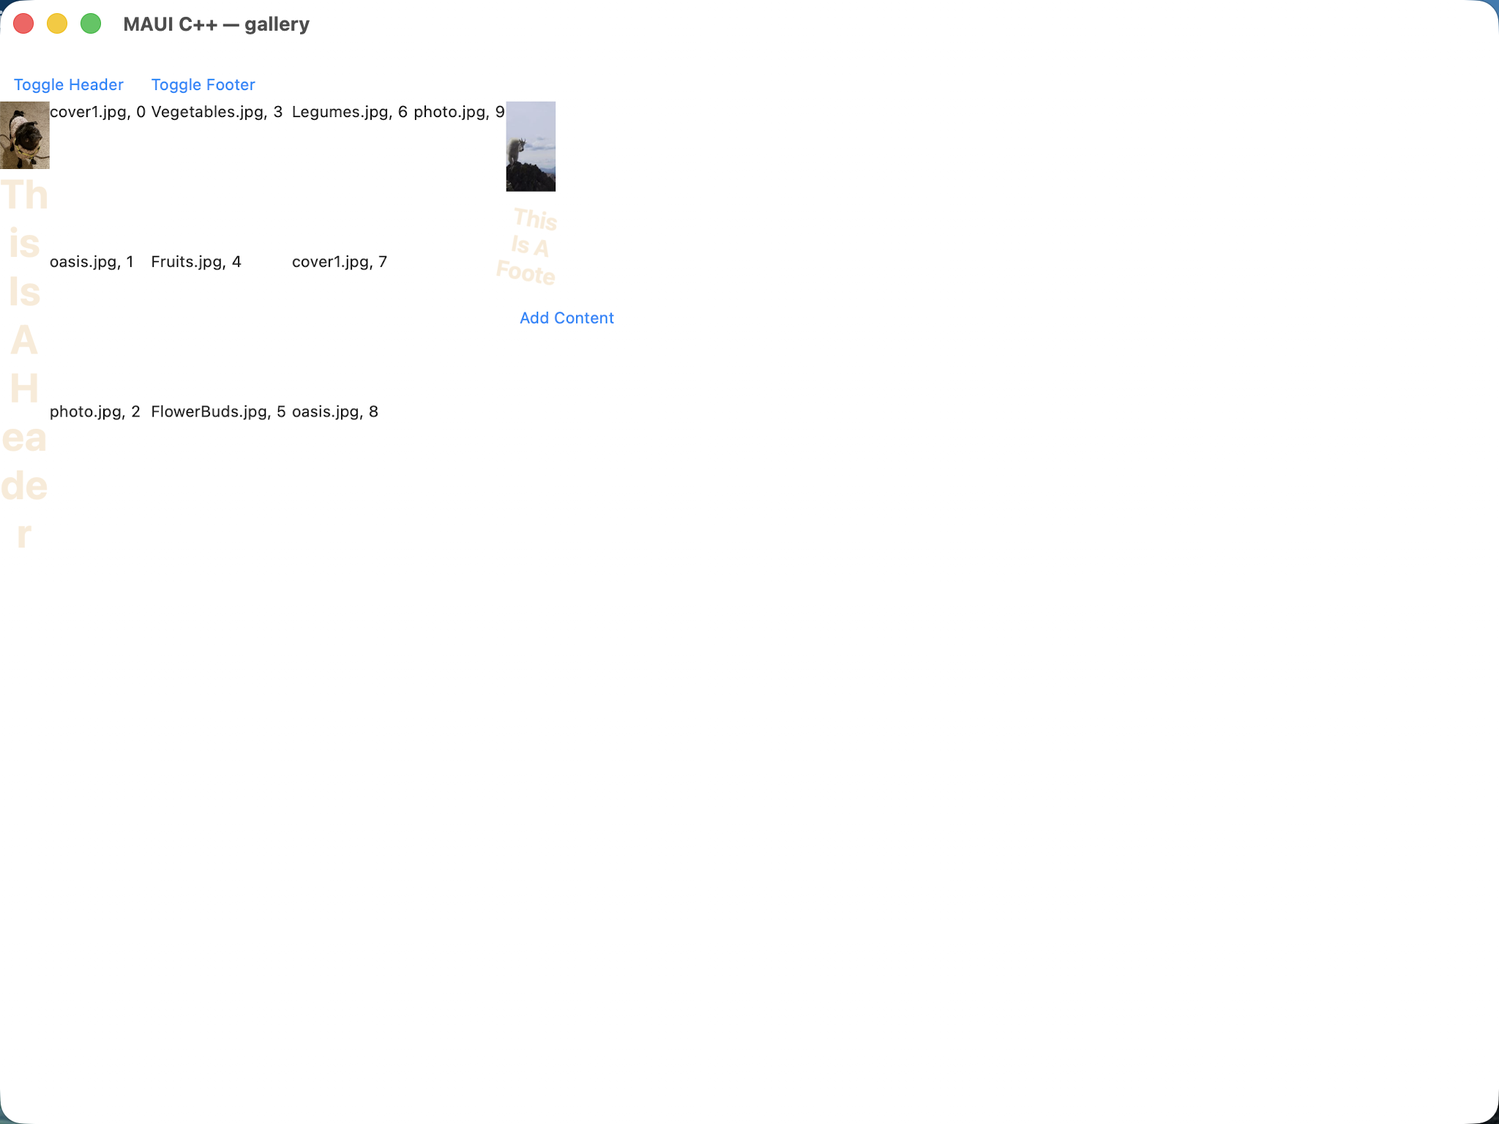
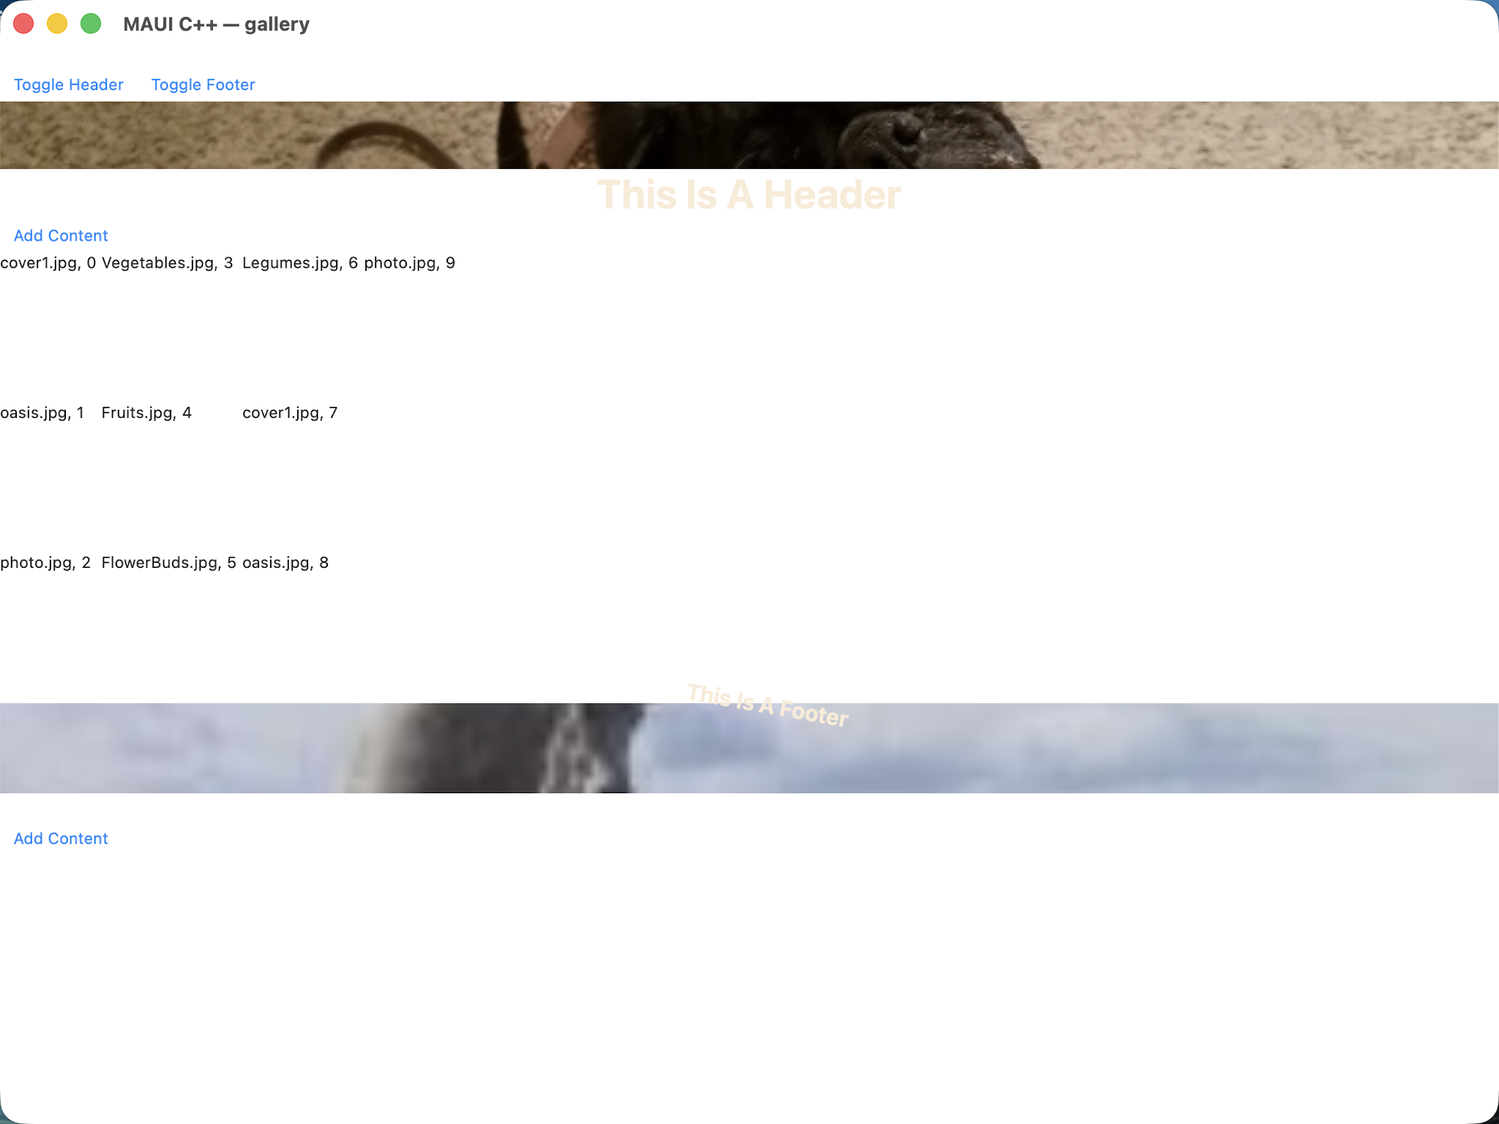
fix(gallery): header/footer chrome boxed onto CollectionView.Header/Footer
CollectionView.Header/.Footer (the VIEW form) is unsupported by the port
(port/maui-reference's own comment on these twins), but header_footer_view_page
and header_footer_grid_horizontal_page still called list_.set_header()/
set_footer() with the chrome Grids/StackLayouts boxed onto the CollectionView.
That squeezed the header image to item-cell-sized space in the horizontal-grid
page (a ~65px thumbnail instead of a full-width strip, with the header caption
wrapping vertically) and stacked/overlapped the header and footer chrome for
the plain header_footer_view page instead of showing an empty CollectionView
between them.

Rewrite both pages to match the shared twin XAML exactly: the header/footer
chrome are plain siblings (ABOVE/BELOW the CollectionView) inside a
VerticalStackLayout, not boxed Header/Footer values. header_footer_grid_horizontal's
toggle buttons are now inert resting UI (there's nothing left to toggle now that
the chrome isn't a boxed Header/Footer value), matching the shared XAML's own
"Clicked handlers omitted" note. Closes both builder/XAML structural divergences;
header_footer_view is removed from known_diverging() (header_footer_grid_horizontal
stays listed — a separate StackLayout-normalization divergence, cluster A).

Changed region(s): [[0.0, 0.0625, 1.0, 0.5], [0.0, 0.5938, 1.0, 0.75], [0.375, 0.2812, 0.4062, 0.3125]]

diff --git a/port/cpp/examples/gallery/pages/header_footer_grid_horizontal_page.hpp b/port/cpp/examples/gallery/pages/header_footer_grid_horizontal_page.hpp
@@ -1,39 +1,32 @@
 #pragma once
-// maui::samples::header_footer_grid_horizontal_page — ports HeaderFooterGridHorizontal.xaml
-// (+ HeaderFooterGridHorizontal.xaml.cs) of the C# CollectionView gallery
-// (CollectionViewGalleries/HeaderFooterGalleries).
+// maui::samples::header_footer_grid_horizontal_page — ports the shared twin
+// header_footer_grid_horizontal.xaml (port/maui-reference/pages/header_footer_grid_horizontal.xaml —
+// the HeaderFooterGridHorizontal.xaml oracle).
 //
 // The original page is the HORIZONTAL twin of HeaderFooterGrid: a two-row Grid — a horizontal
-// StackLayout of two buttons ("Toggle Header" / "Toggle Footer") on top, and below it a CollectionView
-// whose ItemsLayout is a GridItemsLayout (Span=3, **Orientation=Horizontal**, HorizontalItemSpacing=4,
-// VerticalItemSpacing=2). The only structural difference from the vertical sibling is that
-// GridItemsLayout Orientation, which makes the grid scroll/flow horizontally (a 3-row band of cells
-// that pages sideways) rather than vertically. CollectionView.Header and CollectionView.Footer are each
-// a VIEW (a StackLayout carrying an Image, a bold AntiqueWhite Label — "This Is A Header" / "This Is A
-// Footer" — and a nested horizontal StackLayout with an "Add Content" Button). The xaml.cs seeds the
-// source with DemoFilteredItemSource(10), sets ItemTemplate = ExampleTemplates.PhotoTemplate(), and
-// wires three handlers:
-//   - ToggleHeader / ToggleFooter stash the current Header/Footer and flip it to null and back
-//     (`header = CollectionView.Header ?? header; CollectionView.Header = Header==null ? header : null`);
-//   - AddContentClicked appends a `Label { Text = "Grow" }` to the StackLayout that owns the tapped
-//     button (the header or footer chrome grows in place).
+// StackLayout of two buttons ("Toggle Header" / "Toggle Footer") on top, and below it (Grid row 1) a
+// VerticalStackLayout wrapping, top to bottom: the header StackLayout, a CollectionView (ItemsLayout a
+// GridItemsLayout Span=3 **Orientation=Horizontal**), and the footer StackLayout. The header/footer
+// StackLayouts each carry an Image, a bold AntiqueWhite caption Label ("This Is A Header" / "This Is A
+// Footer"), and a nested horizontal StackLayout with an "Add Content" Button.
 //
-// This is the VIEW-as-chrome arm over a HORIZONTAL grid: the headless collection_view handler's
-// realize_supplemental takes the `value.as_bindable()` branch (reuse_id "view") and hosts the
-// StackLayout directly outside the scroll extent — exactly the C# `Header is View` path — while the
-// item area flows the cells horizontally per the GridItemsLayout orientation.
+// CollectionView.Header / .Footer (the VIEW form) are UNSUPPORTED by the port (see the shared XAML's own
+// comment), so — exactly like the twin — the header/footer StackLayouts are moved to plain SIBLINGS
+// ABOVE/BELOW the CollectionView inside a VerticalStackLayout, in top-to-bottom resting order, rather
+// than boxed onto CollectionView.Header/Footer (that was this page's prior, now-corrected, structure —
+// it squeezed both chrome stacks into item-cell-sized space and stacked them behind the header image).
+// The toggle buttons therefore no longer toggle a CollectionView.Header/Footer value; they are kept as
+// inert resting UI (Clicked handlers omitted, matching the shared XAML's own "Clicked handlers omitted"
+// note) — there is nothing left for them to toggle now that the chrome is plain siblings, matching the
+// oracle's resting (never-toggled) capture.
 //
 // The port mirrors the shape code-first:
 //   - the two header/footer chrome StackLayouts are built as vertical_stack_layout members (C#'s
 //     default StackLayout orientation is vertical) carrying an image, the bold AntiqueWhite caption
-//     label, and a nested horizontal_stack_layout holding the "Add Content" button (the C# nests the
-//     button in its own horizontal StackLayout — reproduced so AddContentClicked's `ve.Parent is
-//     StackLayout` walk lands on that inner stack);
+//     label, and a nested horizontal_stack_layout holding the "Add Content" button;
 //   - the GridItemsLayout(Span=3, **Horizontal**, …) is set as the collection_view's ItemsLayout;
 //   - the item template is the PhotoTemplate caption Label (Text bound to each row's caption — the
-//     image half has no headless-safe analog without an asset pipeline, see note);
-//   - toggle_header()/toggle_footer() reproduce the stash-and-flip logic; add_content() appends a
-//     "Grow" label to the inner horizontal stack the tapped button sits in (the C# parent walk).
+//     image half has no headless-safe analog without an asset pipeline, see note).
 //
 // The page OWNS its whole element tree (the items_page pattern); the generic mount (app_host.hpp) attaches
 // every owned view's handler and hosts the tree.
@@ -56,7 +49,6 @@
 #include "maui/controls/grid.hpp"
 #include "maui/controls/horizontal_stack_layout.hpp"
 #include "maui/controls/image.hpp"
-#include "maui/controls/items/boxed_item.hpp"
 #include "maui/controls/items/collection_view.hpp"
 #include "maui/controls/items/grid_items_layout.hpp"
 #include "maui/controls/items/items_layout_orientation.hpp"
@@ -91,15 +83,14 @@ namespace maui::samples
             grid_.add_row_definition(maui::core::grid_length::automatic());
             grid_.add_row_definition(maui::core::grid_length::automatic());
 
-            // ---- the horizontal StackLayout of toggle buttons (Grid row 0) ----
+            // ---- the horizontal StackLayout of toggle buttons (Grid row 0; resting UI — Clicked
+            // handlers omitted, matching the shared XAML's own note) ----
             toggle_header_button_.set_text("Toggle Header");
-            toggle_header_button_.clicked.connect([this] { toggle_header(); });
             toggle_footer_button_.set_text("Toggle Footer");
-            toggle_footer_button_.clicked.connect([this] { toggle_footer(); });
             toggles_.add(toggle_header_button_);
             toggles_.add(toggle_footer_button_);
 
-            // ---- the CollectionView (Grid row 1) with a HORIZONTAL GridItemsLayout(Span=3) ----
+            // ---- the CollectionView with a HORIZONTAL GridItemsLayout(Span=3) ----
             // GridItemsLayout Span="3" Orientation="Horizontal" HorizontalItemSpacing="4"
             // VerticalItemSpacing="2" — the one thing distinguishing this page from HeaderFooterGrid.
             auto grid_layout = std::make_shared<maui::controls::grid_items_layout>(
@@ -115,16 +106,21 @@ namespace maui::samples
             list_.set_item_template(cell);
             list_.set_items_source(items_);
 
-            // ---- the VIEW Header + VIEW Footer (the chrome arm of the oracle page) ----
+            // ---- the header/footer chrome StackLayouts (plain siblings — CollectionView.Header/Footer
+            // view form is unsupported, per the shared XAML's own comment) ----
             build_header_chrome();
             build_footer_chrome();
-            list_.set_header(maui::controls::boxed_item::of(header_chrome_));
-            list_.set_footer(maui::controls::boxed_item::of(footer_chrome_));
+
+            // Twin structure: Grid row 1 = VerticalStackLayout > [header stack, CollectionView, footer
+            // stack].
+            content_.add(header_chrome_);
+            content_.add(list_);
+            content_.add(footer_chrome_);
 
             grid_.set_row(toggles_, 0);
             grid_.add(toggles_);
-            grid_.set_row(list_, 1);
-            grid_.add(list_);
+            grid_.set_row(content_, 1);
+            grid_.add(content_);
             page_.set_content(grid_);
         }
 
@@ -145,35 +141,6 @@ namespace maui::samples
         [[nodiscard]] const std::shared_ptr<maui::core::observable_collection<demo_item>>& items() const
         {
             return items_;
-        }
-
-        // ToggleHeader: stash the current header, then flip it to null / back
-        // (`header = CollectionView.Header ?? header; Header = Header==null ? header : null`).
-        void toggle_header()
-        {
-            if (list_.header().has_value())
-            {
-                stashed_header_ = list_.header();
-                list_.set_header(maui::controls::boxed_item{}); // null
-            }
-            else
-            {
-                list_.set_header(stashed_header_);
-            }
-        }
-
-        // ToggleFooter: the footer twin of toggle_header.
-        void toggle_footer()
-        {
-            if (list_.footer().has_value())
-            {
-                stashed_footer_ = list_.footer();
-                list_.set_footer(maui::controls::boxed_item{}); // null
-            }
-            else
-            {
-                list_.set_footer(stashed_footer_);
-            }
         }
 
         // AddContentClicked: append a `Label { Text = "Grow" }` to the inner horizontal StackLayout the
@@ -208,8 +175,6 @@ namespace maui::samples
         // stack in place).
         void build_header_chrome()
         {
-            header_chrome_ = std::make_shared<maui::controls::vertical_stack_layout>();
-
             header_image_.set_source(maui::controls::image_source::from_file("oasis.jpg"));
             header_image_.set_aspect(maui::core::aspect::aspect_fill);
             header_image_.set_height_request(60);
@@ -223,17 +188,15 @@ namespace maui::samples
             header_add_button_.clicked.connect([this] { add_content(header_button_row_); });
             header_button_row_.add(header_add_button_);
 
-            header_chrome_->add(header_image_);
-            header_chrome_->add(header_label_);
-            header_chrome_->add(header_button_row_);
+            header_chrome_.add(header_image_);
+            header_chrome_.add(header_label_);
+            header_chrome_.add(header_button_row_);
         }
 
         // The footer StackLayout: an 80-high cover1.jpg Image, a bold 20-pt AntiqueWhite caption rotated
         // 10 degrees, and a nested horizontal StackLayout holding the "Add Content" button.
         void build_footer_chrome()
         {
-            footer_chrome_ = std::make_shared<maui::controls::vertical_stack_layout>();
-
             footer_image_.set_source(maui::controls::image_source::from_file("cover1.jpg"));
             footer_image_.set_aspect(maui::core::aspect::aspect_fill);
             footer_image_.set_height_request(80);
@@ -248,9 +211,9 @@ namespace maui::samples
             footer_add_button_.clicked.connect([this] { add_content(footer_button_row_); });
             footer_button_row_.add(footer_add_button_);
 
-            footer_chrome_->add(footer_image_);
-            footer_chrome_->add(footer_label_);
-            footer_chrome_->add(footer_button_row_);
+            footer_chrome_.add(footer_image_);
+            footer_chrome_.add(footer_label_);
+            footer_chrome_.add(footer_button_row_);
         }
 
         std::shared_ptr<maui::core::observable_collection<demo_item>> items_; // publisher before the list (§8)
@@ -262,26 +225,23 @@ namespace maui::samples
         maui::controls::button toggle_header_button_;
         maui::controls::button toggle_footer_button_;
 
-        // row 1: the collection_view
+        // row 1: VerticalStackLayout > [header stack, CollectionView, footer stack]
+        maui::controls::vertical_stack_layout content_;
         maui::controls::collection_view list_;
 
-        // the VIEW header chrome (owned via shared_ptr so a boxed_item can keep it alive across toggles)
-        std::shared_ptr<maui::controls::vertical_stack_layout> header_chrome_;
+        // the header chrome (a plain sibling ABOVE the CollectionView)
+        maui::controls::vertical_stack_layout header_chrome_;
         maui::controls::image header_image_;
         maui::controls::label header_label_;
         maui::controls::horizontal_stack_layout header_button_row_; // the C# inner button StackLayout
         maui::controls::button header_add_button_;
 
-        // the VIEW footer chrome
-        std::shared_ptr<maui::controls::vertical_stack_layout> footer_chrome_;
+        // the footer chrome (a plain sibling BELOW the CollectionView)
+        maui::controls::vertical_stack_layout footer_chrome_;
         maui::controls::image footer_image_;
         maui::controls::label footer_label_;
         maui::controls::horizontal_stack_layout footer_button_row_;
         maui::controls::button footer_add_button_;
-
-        // the stashed chrome a toggle flips back to (the C# `header`/`footer` fields)
-        maui::controls::boxed_item stashed_header_;
-        maui::controls::boxed_item stashed_footer_;
 
         // the "Grow" labels add_content mints (kept alive — the stack borrows i_view&)
         std::vector<std::shared_ptr<maui::controls::label>> grown_labels_;

diff --git a/port/cpp/examples/gallery/pages/header_footer_view_page.hpp b/port/cpp/examples/gallery/pages/header_footer_view_page.hpp
@@ -1,6 +1,6 @@
 #pragma once
-// maui::samples::header_footer_view_page — ports HeaderFooterView.xaml (+ .xaml.cs) of the C#
-// CollectionView gallery (CollectionViewGalleries/HeaderFooterGalleries).
+// maui::samples::header_footer_view_page — ports the shared twin header_footer_view.xaml
+// (port/maui-reference/pages/header_footer_view.xaml — the HeaderFooterView.xaml oracle).
 //
 // The original page (HeaderFooterView): a CollectionView whose Header and Footer are each a VIEW
 // (a Grid, NOT a string and NOT a DataTemplate):
@@ -15,15 +15,16 @@
 // The viewmodel's AddCommand awaits ~1s then AddItems(Items, 2); ClearCommand clears Items; HeaderText /
 // FooterText are the two static caption strings.
 //
-// This is the VIEW arm of the Header/Footer trio (HeaderFooterString boxes strings, HeaderFooterTemplate
-// boxes DataTemplates, this boxes live Views): the headless collection_view handler's
-// realize_supplemental takes the `value.as_bindable()` branch (reuse_id "view") and hosts each Grid
-// directly outside the scroll extent — the C# `Header is View` / `Footer is View` path.
+// CollectionView.Header / .Footer (the VIEW form) are UNSUPPORTED by the port (see the shared XAML's
+// own comment), so — exactly like the twin — the header Grid and footer Grid are plain SIBLINGS of the
+// CollectionView inside a VerticalStackLayout, in top-to-bottom resting order: header Grid, (empty)
+// CollectionView, footer Grid. They are NOT boxed onto CollectionView.Header/Footer (that was this
+// page's prior, now-corrected, structure — it made both chrome grids overlap at the top of the page).
 //
 // The port mirrors the shape code-first:
-//   - the Header is a grid (Image + bound-text Label) boxed as the Header VALUE;
+//   - the Header is a grid (Image + bound-text Label), a sibling ABOVE the CollectionView;
 //   - the Footer is a grid (Image + rotated bound-text Label spanning the top + two command Buttons on
-//     the bottom) boxed as the Footer VALUE;
+//     the bottom), a sibling BELOW the CollectionView;
 //   - the AddCommand / ClearCommand are wired to each button's command — add_items() appends 2 rows,
 //     clear_items() empties the live source (so the source starts empty and the footer buttons drive it);
 //   - the item template is the PhotoTemplate caption Label (Text bound to each row's caption).
@@ -50,10 +51,10 @@
 #include "maui/controls/file_image_source.hpp"
 #include "maui/controls/grid.hpp"
 #include "maui/controls/image.hpp"
-#include "maui/controls/items/boxed_item.hpp"
 #include "maui/controls/items/collection_view.hpp"
 #include "maui/controls/label.hpp"
 #include "maui/controls/templates/data_template.hpp"
+#include "maui/controls/vertical_stack_layout.hpp"
 #include "maui/core/aspect.hpp"
 #include "maui/core/font.hpp"
 #include "maui/core/grid_length.hpp"
@@ -85,13 +86,16 @@ namespace maui::samples
             list_.set_item_template(cell);
             list_.set_items_source(items_);
 
-            // ---- the VIEW Header + VIEW Footer (the whole point of this oracle page) ----
+            // ---- the header Grid + footer Grid (plain siblings — CollectionView.Header/Footer view
+            // form is unsupported, per the shared XAML's own comment) ----
             build_header_chrome();
             build_footer_chrome();
-            list_.set_header(maui::controls::boxed_item::of(header_chrome_));
-            list_.set_footer(maui::controls::boxed_item::of(footer_chrome_));
 
-            page_.set_content(list_);
+            // Twin structure: VerticalStackLayout > [header Grid, (empty) CollectionView, footer Grid].
+            root_.add(header_chrome_);
+            root_.add(list_);
+            root_.add(footer_chrome_);
+            page_.set_content(root_);
         }
 
         [[nodiscard]] maui::controls::content_page& page()
@@ -136,8 +140,6 @@ namespace maui::samples
         // bound to {Binding HeaderText} ("This Is A Header" — the constant the viewmodel returns).
         void build_header_chrome()
         {
-            header_chrome_ = std::make_shared<maui::controls::grid>();
-
             header_image_.set_source(maui::controls::image_source::from_file("oasis.jpg"));
             header_image_.set_aspect(maui::core::aspect::aspect_fill);
             header_image_.set_height_request(100);
@@ -147,8 +149,8 @@ namespace maui::samples
             header_label_.set_horizontal_text_alignment(maui::core::text_alignment::center);
             header_label_.set_font(maui::core::font::system_font_of_size(36, maui::core::font_weight::bold));
 
-            header_chrome_->add(header_image_); // both occupy the single implicit cell (overlaid, like XAML)
-            header_chrome_->add(header_label_);
+            header_chrome_.add(header_image_); // both occupy the single implicit cell (overlaid, like XAML)
+            header_chrome_.add(header_label_);
         }
 
         // The Footer 2x2 Grid: row 0 (spanning both columns) a cover1.jpg Image (80 high) overlaid by a
@@ -156,11 +158,10 @@ namespace maui::samples
         // "Add 2 Items" (AddCommand) and "Clear All Items" (ClearCommand).
         void build_footer_chrome()
         {
-            footer_chrome_ = std::make_shared<maui::controls::grid>();
-            footer_chrome_->add_row_definition(maui::core::grid_length::star());
-            footer_chrome_->add_row_definition(maui::core::grid_length::star());
-            footer_chrome_->add_column_definition(maui::core::grid_length::star());
-            footer_chrome_->add_column_definition(maui::core::grid_length::star());
+            footer_chrome_.add_row_definition(maui::core::grid_length::star());
+            footer_chrome_.add_row_definition(maui::core::grid_length::star());
+            footer_chrome_.add_column_definition(maui::core::grid_length::star());
+            footer_chrome_.add_column_definition(maui::core::grid_length::star());
 
             footer_image_.set_source(maui::controls::image_source::from_file("cover1.jpg"));
             footer_image_.set_aspect(maui::core::aspect::aspect_fill);
@@ -178,32 +179,33 @@ namespace maui::samples
             clear_button_.command = [this] { clear_items(); }; // Command="{Binding ClearCommand}"
 
             // Grid.Row="0" Grid.ColumnSpan="2" for the image + label; the buttons on Row 1, Cols 0/1.
-            footer_chrome_->add(footer_image_);
-            footer_chrome_->set_row(footer_image_, 0);
-            footer_chrome_->set_column_span(footer_image_, 2);
-            footer_chrome_->add(footer_label_);
-            footer_chrome_->set_row(footer_label_, 0);
-            footer_chrome_->set_column_span(footer_label_, 2);
-            footer_chrome_->add(add_button_);
-            footer_chrome_->set_row(add_button_, 1);
-            footer_chrome_->set_column(add_button_, 0);
-            footer_chrome_->add(clear_button_);
-            footer_chrome_->set_row(clear_button_, 1);
-            footer_chrome_->set_column(clear_button_, 1);
+            footer_chrome_.add(footer_image_);
+            footer_chrome_.set_row(footer_image_, 0);
+            footer_chrome_.set_column_span(footer_image_, 2);
+            footer_chrome_.add(footer_label_);
+            footer_chrome_.set_row(footer_label_, 0);
+            footer_chrome_.set_column_span(footer_label_, 2);
+            footer_chrome_.add(add_button_);
+            footer_chrome_.set_row(add_button_, 1);
+            footer_chrome_.set_column(add_button_, 0);
+            footer_chrome_.add(clear_button_);
+            footer_chrome_.set_row(clear_button_, 1);
+            footer_chrome_.set_column(clear_button_, 1);
         }
 
         std::shared_ptr<maui::core::observable_collection<demo_item>> items_; // publisher before the list (§8)
         int next_index_ = 0;                                                  // continues the AddItems index sequence
         maui::controls::content_page page_;
-        maui::controls::collection_view list_;
+        maui::controls::vertical_stack_layout root_; // the twin's outer VerticalStackLayout
+        maui::controls::collection_view list_;       // empty — no Header/Footer set (unsupported view form)
 
-        // the VIEW header chrome (owned via shared_ptr so a boxed_item keeps it alive)
-        std::shared_ptr<maui::controls::grid> header_chrome_;
+        // the header Grid (a plain sibling ABOVE the CollectionView)
+        maui::controls::grid header_chrome_;
         maui::controls::image header_image_;
         maui::controls::label header_label_;
 
-        // the VIEW footer chrome
-        std::shared_ptr<maui::controls::grid> footer_chrome_;
+        // the footer Grid (a plain sibling BELOW the CollectionView)
+        maui::controls::grid footer_chrome_;
         maui::controls::image footer_image_;
         maui::controls::label footer_label_;
         maui::controls::button add_button_;

diff --git a/port/cpp/tests/ui/gallery_structure_equivalence_tests.cpp b/port/cpp/tests/ui/gallery_structure_equivalence_tests.cpp
@@ -296,7 +296,6 @@ namespace
             "adaptive_collection",
             "custom_layout",
             "chat_example",
-            "header_footer_view",
             "hybrid_web_view",
             "ios_scroll_view",
             "layout_is_enabled",
